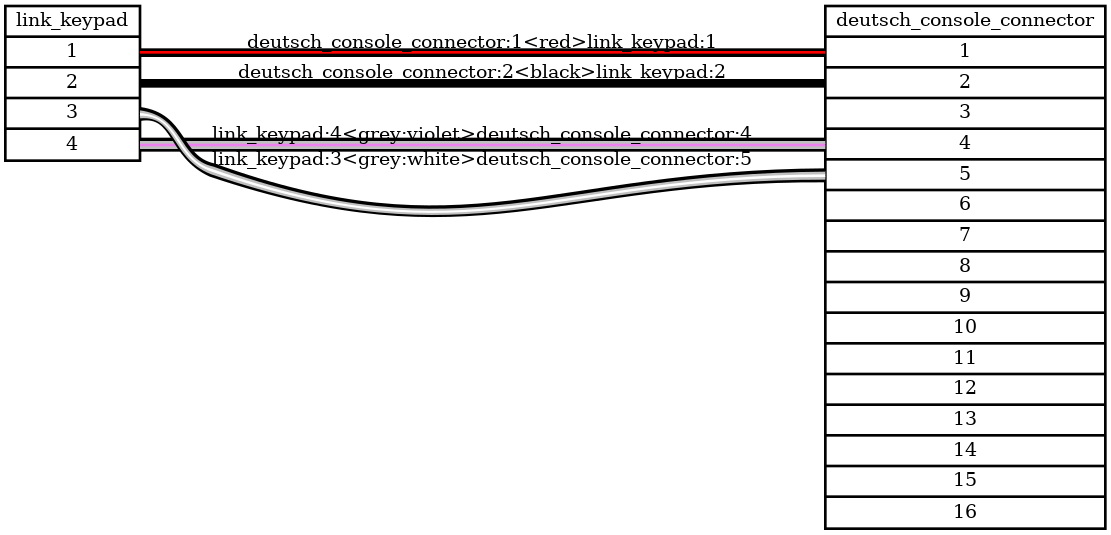
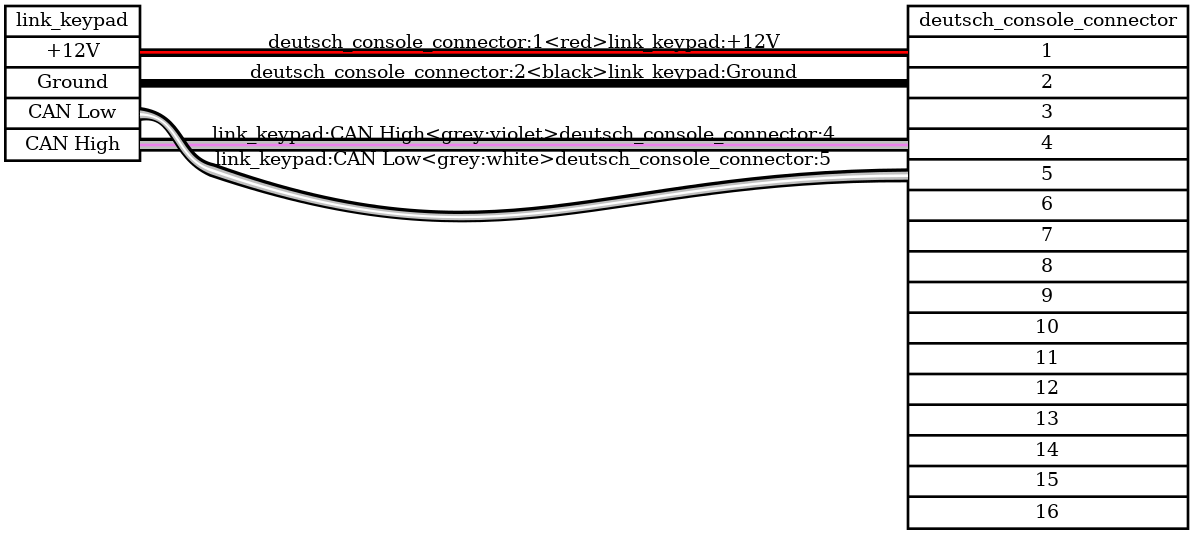
Label the keypad pins

diff --git a/corrado_wiring.py b/corrado_wiring.py
@@ -215,7 +215,11 @@ Node('razor_pdm', [
 ])
 Node('link_ecu_a', LINK_ECU_A_PIN_COLOR_MAP.keys())
 Node('link_ecu_b', LINK_ECU_B_PIN_COLOR_MAP.keys())
-Node('link_keypad', [1, 2, 3, 4])
+Node('link_keypad', 
+     ['+12V',      # Pin1/Red
+      'Ground',    # Pin2/Black
+      'CAN Low',   # Pin3/Blue
+      'CAN High']) # Pin4/White
 
 # Grounds
 Node('engine_ground', ['Gnd'])
@@ -360,13 +364,13 @@ AddPathWithMap((
 AddPath((
   ('razor_pdm', 'ADIO6'),
   DCC_PWR,
-  ('link_keypad', '1'),
+  ('link_keypad', '+12V'),
 ), 'red')
 AddPath((
   ('battery', 'neg'),
   ('acc_ground', 'ground'),
   DCC_GND,
-  ('link_keypad', '2'),
+  ('link_keypad', 'Ground'),
 ), 'black')
 
 # CAN
@@ -379,12 +383,12 @@ AddPathWithMap((
   ('link_ecu_b', 'DI9/CAN2L'),
 ))
 AddPathWithMap((
-  ('link_keypad', '4'),
+  ('link_keypad', 'CAN High'),
   DCC.GetFreePin(),
   ('link_ecu_b', 'DI10/CAN2H'),
 ))
 AddPathWithMap((
-  ('link_keypad', '3'),
+  ('link_keypad', 'CAN Low'),
   DCC.GetFreePin(),
   ('link_ecu_b', 'DI9/CAN2L'),
 ))
